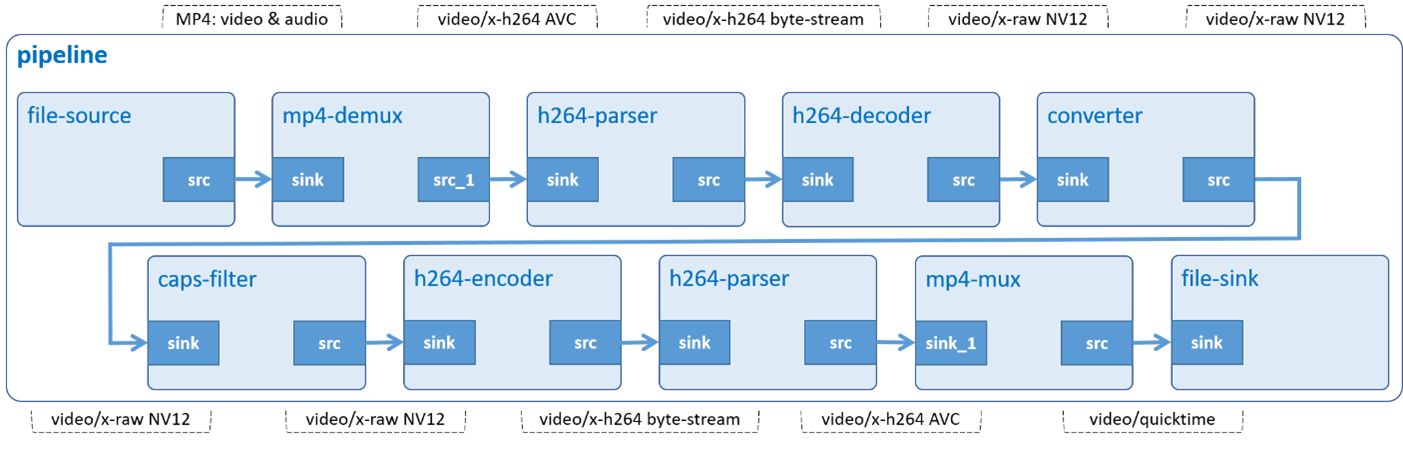
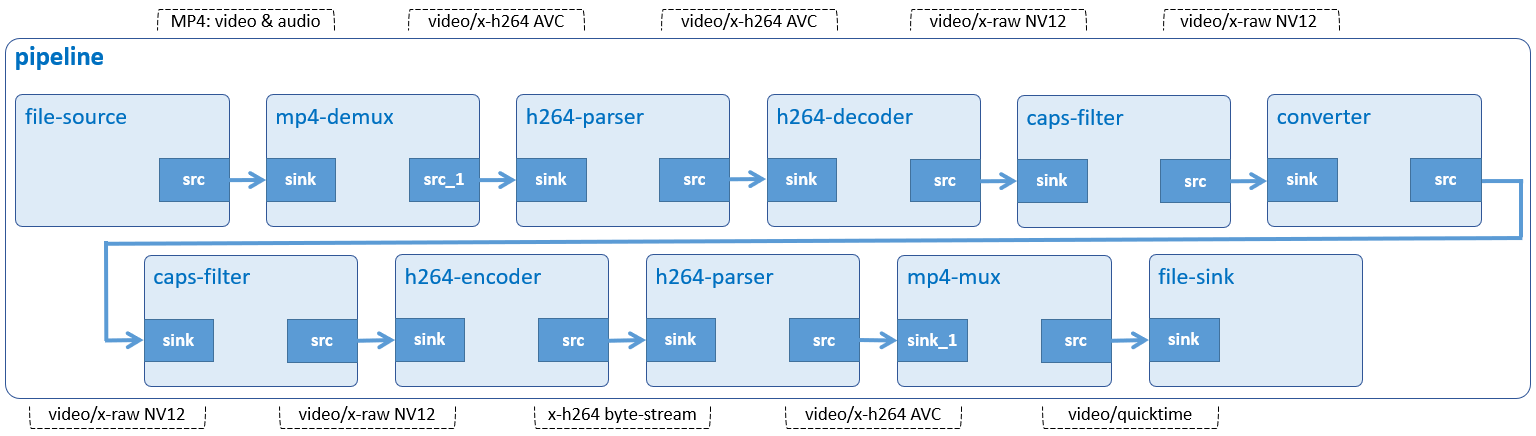
Support GStreamer Sample Code for RZ/V2H on AI SDK v6.00
Support these 18 GStreamer samples code for RZ/V2H AI SDK v6.00
Detail list is shown in README.md.

diff --git a/10_gst-videoscale/main.c b/10_gst-videoscale/main.c
@@ -34,8 +34,9 @@ typedef struct tag_user_data
   GstElement *demuxer;
   GstElement *parser1;
   GstElement *decoder;
+  GstElement *decoder_capsfilter;
   GstElement *filter;
-  GstElement *capsfilter;
+  GstElement *filter_capsfilter;
   GstElement *encoder;
   GstElement *parser2;
   GstElement *muxer;
@@ -55,6 +56,7 @@ on_pad_added (GstElement * element, GstPad * pad, gpointer data)
   GstStructure *new_pad_struct = NULL;
   const gchar *new_pad_type = NULL;
   UserData *puser_data = (UserData *) data;
+  GstCaps *decode_caps;
   GstCaps *scale_caps;
   int width;
   int height;
@@ -96,15 +98,21 @@ on_pad_added (GstElement * element, GstPad * pad, gpointer data)
     }
 
     /* create simple caps */
+    decode_caps =
+        gst_caps_new_simple ("video/x-raw", "width", G_TYPE_INT, width,
+        "height", G_TYPE_INT, height, NULL);
     scale_caps =
-        gst_caps_new_simple ("video/x-raw", "width", G_TYPE_INT, scaled_width, "height",
-        G_TYPE_INT, scaled_height, NULL);
+        gst_caps_new_simple ("video/x-raw", "width", G_TYPE_INT, scaled_width,
+        "height", G_TYPE_INT, scaled_height, NULL);
 
-    /* set caps property for capsfilters */
-    g_object_set (G_OBJECT (puser_data->capsfilter), "caps", scale_caps, NULL);
+    /* set caps properties for decoder and filter capsfilters */
+    g_object_set (G_OBJECT (puser_data->decoder_capsfilter), "caps", decode_caps, NULL);
+    g_object_set (G_OBJECT (puser_data->filter_capsfilter), "caps", scale_caps, NULL);
 
     /* unref caps after usage */
+    gst_caps_unref (decode_caps);
     gst_caps_unref (scale_caps);
+
     /* We can now link this pad with the H.264 parser sink pad */
     g_print ("Dynamic pad created, linking demuxer/parser\n");
 
@@ -215,8 +223,9 @@ setup_pipeline (UserData *data)
 
   /* Add the elements into the pipeline and link them together */
   gst_bin_add_many (GST_BIN (data->pipeline),
-      data->source, data->demuxer, data->parser1, data->decoder,data->filter,
-      data->capsfilter, data->encoder, data->parser2, data->muxer, data->sink,
+      data->source, data->demuxer, data->parser1, data->decoder,
+      data->decoder_capsfilter, data->filter, data->filter_capsfilter,
+      data->encoder, data->parser2, data->muxer, data->sink,
       NULL);
   /* file-src -> mp4-demuxer */
   if (gst_element_link (data->source, data->demuxer) != TRUE) {
@@ -225,8 +234,9 @@ setup_pipeline (UserData *data)
   }
   /* h264-parser-1 -> video-decoder -> video-filter -> video-encoder
    * -> h264-parser-2 */
-  if (gst_element_link_many (data->parser1, data->decoder, data->filter,
-          data->capsfilter, data->encoder, data->parser2, NULL) != TRUE) {
+  if (gst_element_link_many (data->parser1, data->decoder,
+          data->decoder_capsfilter, data->filter, data->filter_capsfilter,
+          data->encoder, data->parser2, NULL) != TRUE) {
     g_printerr ("Elements could not be linked.\n");
     return FALSE;
   }
@@ -355,16 +365,21 @@ main (int argc, char *argv[])
   user_data.demuxer = gst_element_factory_make ("qtdemux", "mp4-demuxer");
   user_data.parser1 = gst_element_factory_make ("h264parse", "h264-parser-1");
   user_data.decoder = gst_element_factory_make ("omxh264dec", "video-decoder");
+  user_data.decoder_capsfilter =
+      gst_element_factory_make ("capsfilter", "decoder-capsfilter");
   user_data.filter = gst_element_factory_make ("vspmfilter", "video-filter");
-  user_data.capsfilter = gst_element_factory_make ("capsfilter", "capsfilter");
+  user_data.filter_capsfilter =
+      gst_element_factory_make ("capsfilter", "filter-capsfilter");
   user_data.encoder = gst_element_factory_make ("omxh264enc", "video-encoder");
   user_data.parser2 = gst_element_factory_make ("h264parse", "h264-parser-2");
   user_data.muxer = gst_element_factory_make ("qtmux", "mp4-muxer");
   user_data.sink = gst_element_factory_make ("filesink", "file-output");
 
   if (!user_data.pipeline || !user_data.source || !user_data.demuxer ||
-          !user_data.parser1 || !user_data.decoder || !user_data.filter ||
-          !user_data.capsfilter || !user_data.encoder || !user_data.parser2 ||
+          !user_data.parser1 || !user_data.decoder ||
+          !user_data.decoder_capsfilter ||
+          !user_data.filter || !user_data.filter_capsfilter ||
+          !user_data.encoder || !user_data.parser2 ||
           !user_data.muxer || !user_data.sink) {
     g_printerr ("One element could not be created. Exiting.\n");
     return -1;

diff --git a/10_gst-videoscale/README.md b/10_gst-videoscale/README.md
@@ -31,8 +31,9 @@ typedef struct tag_user_data
   GstElement *demuxer;
   GstElement *parser1;
   GstElement *decoder;
+  GstElement *decoder_capsfilter;
   GstElement *filter;
-  GstElement *capsfilter;
+  GstElement *filter_capsfilter;
   GstElement *encoder;
   GstElement *parser2;
   GstElement *muxer;
@@ -45,7 +46,7 @@ typedef struct tag_user_data
 } UserData;
 ```
 This structure contains:
-- Gstreamer element variables: `pipeline`, `source`, `demuxer`, `parser1`, `decoder`, `filter`, `capsfilter`, `encoder`, `parser2`, `muxer`, `sink`. These variables will be used to create pipeline and elements as section [Create elements](#create-elements).
+- Gstreamer element variables: `pipeline`, `source`, `demuxer`, `parser1`, `decoder`, `decoder_capsfilter`, `filter`, `filter_capsfilter`, `encoder`, `parser2`, `muxer`, `sink`. These variables will be used to create pipeline and elements as section [Create elements](#create-elements).
 - Variable `input_file (const gchar)` to represent MP4 video input file.
 - Variable `scaled_width (int)` and `scaled_height (int)` are width and height of video after scale down.
 - Variable `board (enum board_name)` represents the MPU in use.
@@ -69,8 +70,9 @@ user_data.source = gst_element_factory_make ("filesrc", "video-src");
 user_data.demuxer = gst_element_factory_make ("qtdemux", "mp4-demuxer");
 user_data.parser1 = gst_element_factory_make ("h264parse", "h264-parser-1");
 user_data.decoder = gst_element_factory_make ("omxh264dec", "video-decoder");
+user_data.decoder_capsfilter = gst_element_factory_make ("capsfilter", "decoder-capsfilter");
 user_data.filter = gst_element_factory_make ("vspmfilter", "video-filter");
-user_data.capsfilter = gst_element_factory_make ("capsfilter", "capsfilter");
+user_data.filter_capsfilter = gst_element_factory_make ("capsfilter", "filter-capsfilter");
 user_data.encoder = gst_element_factory_make ("omxh264enc", "video-encoder");
 user_data.parser2 = gst_element_factory_make ("h264parse", "h264-parser-2");
 user_data.muxer = gst_element_factory_make ("qtmux", "mp4-muxer");
@@ -81,7 +83,7 @@ To scale down an H.264 video and store it in MP4 container, the following elemen
 -	 Element `qtdemux` de-multiplexes an MP4 file into audio and video stream.
 -	 Element `omxh264dec` decompresses H.264 stream to raw NV12-formatted video.
 -	 Element `vspmfilter` handles video scaling.
--	 Element `capsfilter` contains resolution so that vspfilter will scale video frames based on this value.
+-	 Element `capsfilter` contains decode resolution and scale resolution that decoder and vspmfilter use based on these values.
 -	 Element `omxh264enc` encodes raw video into H.264 compressed data.
 -	 Element `h264parse` parses H.264 video from byte stream format to AVC format which `omxh264dec` can process.
 -	 Element `qtmux` merges H.264 byte stream to MP4 container.
@@ -102,17 +104,23 @@ The `g_object_set()` function is used to set some element’s properties, such a
 -	 The `control-rate` property of omxh264enc element is used to specify birate control method which is variable bitrate method in this case.
 -	 The `location` property of filesink element which points to MP4 output file.
 ```c
+decode_caps =
+    gst_caps_new_simple ("video/x-raw", "width", G_TYPE_INT, width,
+    "height", G_TYPE_INT, height, NULL);
 scale_caps =
-    gst_caps_new_simple ("video/x-raw", "width", G_TYPE_INT, scaled_width, "height",
-    G_TYPE_INT, scaled_height, NULL);
+    gst_caps_new_simple ("video/x-raw", "width", G_TYPE_INT, scaled_width,
+    "height", G_TYPE_INT, scaled_height, NULL);
 
-g_object_set (G_OBJECT (puser_data->capsfilter), "caps", scale_caps, NULL);
+g_object_set (G_OBJECT (puser_data->decoder_capsfilter), "caps", decode_caps, NULL);
+g_object_set (G_OBJECT (puser_data->filter_capsfilter), "caps", scale_caps, NULL);
+
+gst_caps_unref (decode_caps);
 gst_caps_unref (scale_caps);
 ```
 Capabilities (short: `caps`) describe the type of data which is streamed between two pads. This data includes raw video format, resolution, and framerate.\
-The `gst_caps_new_simple()` function creates a new cap (scale_caps) which holds output’s resolution. This cap is then added to caps property of capsfilter `(g_object_set)` so that vspfilter will use these values to resize video frames.
+The `gst_caps_new_simple()` function creates new caps (decode_caps and scale_caps) which hold output’s resolutions. These caps are then added to caps property of decode_capsfilter and filter_capsfilter `(g_object_set)` so that decoder and vspmfilter will use these values to decode and resize video frames.
 
->Note that the `scale_caps` should be freed with `gst_caps_unref()` if it is not used anymore.
+>Note that the `decode_caps` and `scale_caps` should be freed with `gst_caps_unref()` if it is not used anymore.
 #### Get input file’s information
 ```c
 new_pad_caps = gst_pad_query_caps (pad, NULL);
@@ -152,6 +160,8 @@ This section shows how to cross-compile and deploy GStreamer _video scale_ appli
   ```sh
   $   sudo sh ./poky-glibc-x86_64-core-image-weston-aarch64-rzv2h-evk-ver1-toolchain-*.sh
   ```
+  Note:
+  > This step installs the RZ/V2H toolchain in the environment AI SDK 5.xx. If you want to install the RZ/V2H toolchain in the environment AI SDK 6.xx, please use `./rz-vlp-glibc-x86_64-core-image-weston-cortexa55-rzv2h-evk-toolchain-*.sh` instead.
 
 * RZ/G3E SMARC Evaluation Kit:
   ```sh

diff --git a/README.md b/README.md
@@ -11,7 +11,7 @@ Renesas evaluates all source codes here in the environment as below:
 | 1 | RZ/G2L SMARC Evaluation Kit | R9A07G044L (RZ/G2L) | [RZ/G Verified Linux Package [5.10-CIP]](https://www.renesas.com/us/en/products/microcontrollers-microprocessors/rz-mpus/rzg-linux-platform/rzg-marketplace/verified-linux-package/rzg-verified-linux-package) Version 3.0.7-update3 <sup>[1]</sup> <br>[RZ MPU Verified Linux Package [6.1-CIP]](https://www.renesas.com/en/software-tool/rz-mpu-verified-linux-package-61-cip) Version 4.0.0 <sup>[2]</sup> |
 | 2 | RZ/V2L SMARC Evaluation Kit | R9A07G054L (RZ/V2L) | [RZ/V Verified Linux Package [5.10-CIP]](https://www.renesas.com/us/en/software-tool/rzv-verified-linux-package) Version 3.0.7-update3 <sup>[1]</sup> |
 | 3 | RZ/V2N Evaluation Board Kit | R9A09G056N44 (RZ/V2N) | [RZ/V2N AI SDK v5.00](https://renesas-rz.github.io/rzv_ai_sdk/5.10/getting_started.html) <sup>[1]</sup><br>[RZ/V2N AI SDK v6.00](https://renesas-rz.github.io/rzv_ai_sdk/6.00/getting_started.html) <sup>[2]</sup> |
-| 4 | RZ/V2H Evaluation Board Kit | R9A09G057H4 (RZ/V2H) | [RZ/V2H AI SDK v5.20](https://renesas-rz.github.io/rzv_ai_sdk/5.10/getting_started.html) <sup>[1]</sup> |
+| 4 | RZ/V2H Evaluation Board Kit | R9A09G057H4 (RZ/V2H) | [RZ/V2H AI SDK v5.20](https://renesas-rz.github.io/rzv_ai_sdk/5.10/getting_started.html) <sup>[1]</sup><br>[RZ/V2H AI SDK v6.00](https://renesas-rz.github.io/rzv_ai_sdk/6.20/getting_started.html) <sup>[2]</sup> |
 | 5 | RZ/G3E SMARC Evaluation Kit | R9A09G047E57 (RZ/G3E) | [RZ/G3E Board Support Package](https://www.renesas.com/en/software-tool/rzg3e-board-support-package) Version 1.0.0 <sup>[2]</sup> |
 
 <sup>[1]</sup> Linux kernel version 5.10 and Yocto version 3.1 (Dunfell)\

diff --git a/01_gst-audioplay/README.md b/01_gst-audioplay/README.md
@@ -203,6 +203,8 @@ This section shows how to cross-compile and deploy GStreamer _audio play_ applic
   ```sh
   $   sudo sh ./poky-glibc-x86_64-core-image-weston-aarch64-rzv2h-evk-ver1-toolchain-*.sh
   ```
+   Note:
+  > This step installs the RZ/V2H toolchain in the environment AI SDK 5.xx. If you want to install the RZ/V2H toolchain in the environment AI SDK 6.xx, please use `./rz-vlp-glibc-x86_64-core-image-weston-cortexa55-rzv2h-evk-toolchain-*.sh` instead.
 
 * RZ/G3E SMARC Evaluation Kit:
   ```sh
@@ -249,4 +251,4 @@ To set the playback volume: please use the alsamixer or amixer tool. Reference: 
 > A short guide that how to use alsamixer (https://wiki.ubuntu.com/Audio/Alsamixer).
 
 #### For RZ/V2H and RZ/V2N:
-> Please refer to **Appendix F How to Configure and Utilize Audio** in the **RZ/V2H Group and RZ/V2N Group Linux Interface Specification GStreamer User's Manual: Software, Revision 2.00** (r01us0653ej0200-rzv2h_rzv2n_GStreamer_UME.pdf) (or later)
+> Please refer to **Appendix F How to Configure and Utilize Audio** in the **RZ/V2H Group and RZ/V2N Group Linux Interface Specification GStreamer User's Manual: Software, Revision 2.01** (r01us0653ej0201-rzv2h_rzv2n_GStreamer_UME.pdf) (or later)

diff --git a/11_gst-audioplayer/README.md b/11_gst-audioplayer/README.md
@@ -503,6 +503,8 @@ This section shows how to cross-compile and deploy GStreamer _audio player_ appl
   ```sh
   $   sudo sh ./poky-glibc-x86_64-core-image-weston-aarch64-rzv2h-evk-ver1-toolchain-*.sh
   ```
+  Note:
+  > This step installs the RZ/V2H toolchain in the environment AI SDK 5.xx. If you want to install the RZ/V2H toolchain in the environment AI SDK 6.xx, please use `./rz-vlp-glibc-x86_64-core-image-weston-cortexa55-rzv2h-evk-toolchain-*.sh` instead.
 
 * RZ/G3E SMARC Evaluation Kit:
   ```sh
@@ -548,4 +550,4 @@ To set the playback volume: please use the alsamixer or amixer tool. Reference: 
 > A short guide that how to use alsamixer (https://wiki.ubuntu.com/Audio/Alsamixer).
 
 #### For RZ/V2H and RZ/V2N:
-> Please refer to **Appendix F How to Configure and Utilize Audio** in the **RZ/V2H Group and RZ/V2N Group Linux Interface Specification GStreamer User's Manual: Software, Revision 2.00** (r01us0653ej0200-rzv2h_rzv2n_GStreamer_UME.pdf) (or later)
+> Please refer to **Appendix F How to Configure and Utilize Audio** in the **RZ/V2H Group and RZ/V2N Group Linux Interface Specification GStreamer User's Manual: Software, Revision 2.01** (r01us0653ej0201-rzv2h_rzv2n_GStreamer_UME.pdf) (or later)

diff --git a/13_gst-audiovideoplay/README.md b/13_gst-audiovideoplay/README.md
@@ -192,6 +192,8 @@ This section shows how to cross-compile and deploy GStreamer _audio video play_ 
   ```sh
   $   sudo sh ./poky-glibc-x86_64-core-image-weston-aarch64-rzv2h-evk-ver1-toolchain-*.sh
   ```
+  Note:
+  > This step installs the RZ/V2H toolchain in the environment AI SDK 5.xx. If you want to install the RZ/V2H toolchain in the environment AI SDK 6.xx, please use `./rz-vlp-glibc-x86_64-core-image-weston-cortexa55-rzv2h-evk-toolchain-*.sh` instead.
 
 * RZ/G3E SMARC Evaluation Kit:
   ```sh
@@ -239,4 +241,4 @@ To set the playback volume: please use the alsamixer or amixer tool. Reference: 
 > A short guide that how to use alsamixer (https://wiki.ubuntu.com/Audio/Alsamixer).
 
 #### For RZ/V2H and RZ/V2N:
-> Please refer to **Appendix F How to Configure and Utilize Audio** in the **RZ/V2H Group and RZ/V2N Group Linux Interface Specification GStreamer User's Manual: Software, Revision 2.00** (r01us0653ej0200-rzv2h_rzv2n_GStreamer_UME.pdf) (or later)
+> Please refer to **Appendix F How to Configure and Utilize Audio** in the **RZ/V2H Group and RZ/V2N Group Linux Interface Specification GStreamer User's Manual: Software, Revision 2.01** (r01us0653ej0201-rzv2h_rzv2n_GStreamer_UME.pdf) (or later)

diff --git a/14_gst-fileplay/README.md b/14_gst-fileplay/README.md
@@ -226,6 +226,8 @@ This section shows how to cross-compile and deploy GStreamer _file_ play_ applic
   ```sh
   $   sudo sh ./poky-glibc-x86_64-core-image-weston-aarch64-rzv2h-evk-ver1-toolchain-*.sh
   ```
+  Note:
+  > This step installs the RZ/V2H toolchain in the environment AI SDK 5.xx. If you want to install the RZ/V2H toolchain in the environment AI SDK 6.xx, please use `./rz-vlp-glibc-x86_64-core-image-weston-cortexa55-rzv2h-evk-toolchain-*.sh` instead.
 
 * RZ/G3E SMARC Evaluation Kit:
   ```sh
@@ -272,4 +274,4 @@ To set the playback volume: please use the alsamixer or amixer tool. Reference: 
 > A short guide that how to use alsamixer (https://wiki.ubuntu.com/Audio/Alsamixer).
 
 #### For RZ/V2H and RZ/V2N:
-> Please refer to **Appendix F How to Configure and Utilize Audio** in the **RZ/V2H Group and RZ/V2N Group Linux Interface Specification GStreamer User's Manual: Software, Revision 2.00** (r01us0653ej0200-rzv2h_rzv2n_GStreamer_UME.pdf) (or later)
+> Please refer to **Appendix F How to Configure and Utilize Audio** in the **RZ/V2H Group and RZ/V2N Group Linux Interface Specification GStreamer User's Manual: Software, Revision 2.01** (r01us0653ej0201-rzv2h_rzv2n_GStreamer_UME.pdf) (or later)

diff --git a/00_gst-helloworld/README.md b/00_gst-helloworld/README.md
@@ -108,6 +108,8 @@ This section shows how to cross-compile and deploy GStreamer _hello world_ appli
   ```sh
   $   sudo sh ./poky-glibc-x86_64-core-image-weston-aarch64-rzv2h-evk-ver1-toolchain-*.sh
   ```
+  Note:
+  > This step installs the RZ/V2H toolchain in the environment AI SDK 5.xx. If you want to install the RZ/V2H toolchain in the environment AI SDK 6.xx, please use `./rz-vlp-glibc-x86_64-core-image-weston-cortexa55-rzv2h-evk-toolchain-*.sh` instead.
 
 * RZ/G3E SMARC Evaluation Kit:
   ```sh

diff --git a/02_gst-videoplay/README.md b/02_gst-videoplay/README.md
@@ -128,6 +128,8 @@ This section shows how to cross-compile and deploy GStreamer _video play_ applic
   ```sh
   $   sudo sh ./poky-glibc-x86_64-core-image-weston-aarch64-rzv2h-evk-ver1-toolchain-*.sh
   ```
+  Note:
+  > This step installs the RZ/V2H toolchain in the environment AI SDK 5.xx. If you want to install the RZ/V2H toolchain in the environment AI SDK 6.xx, please use `./rz-vlp-glibc-x86_64-core-image-weston-cortexa55-rzv2h-evk-toolchain-*.sh` instead.
 
 * RZ/G3E SMARC Evaluation Kit:
   ```sh

diff --git a/03_gst-audioencode/README.md b/03_gst-audioencode/README.md
@@ -115,6 +115,8 @@ This section shows how to cross-compile and deploy GStreamer _audio encode_ appl
   ```sh
   $   sudo sh ./poky-glibc-x86_64-core-image-weston-aarch64-rzv2h-evk-ver1-toolchain-*.sh
   ```
+  Note:
+  > This step installs the RZ/V2H toolchain in the environment AI SDK 5.xx. If you want to install the RZ/V2H toolchain in the environment AI SDK 6.xx, please use `./rz-vlp-glibc-x86_64-core-image-weston-cortexa55-rzv2h-evk-toolchain-*.sh` instead.
 
 * RZ/G3E SMARC Evaluation Kit:
   ```sh

diff --git a/04_gst-videoencode/README.md b/04_gst-videoencode/README.md
@@ -115,6 +115,8 @@ This section shows how to cross-compile and deploy GStreamer _video encode_ appl
   ```sh
   $   sudo sh ./poky-glibc-x86_64-core-image-weston-aarch64-rzv2h-evk-ver1-toolchain-*.sh
   ```
+  Note:
+  > This step installs the RZ/V2H toolchain in the environment AI SDK 5.xx. If you want to install the RZ/V2H toolchain in the environment AI SDK 6.xx, please use `./rz-vlp-glibc-x86_64-core-image-weston-cortexa55-rzv2h-evk-toolchain-*.sh` instead.
 
 * RZ/G3E SMARC Evaluation Kit:
   ```sh

diff --git a/05_gst-audiorecord/README.md b/05_gst-audiorecord/README.md
@@ -195,6 +195,8 @@ This section shows how to cross-compile and deploy GStreamer _audio record_ appl
   ```sh
   $   sudo sh ./poky-glibc-x86_64-core-image-weston-aarch64-rzv2h-evk-ver1-toolchain-*.sh
   ```
+  Note:
+  > This step installs the RZ/V2H toolchain in the environment AI SDK 5.xx. If you want to install the RZ/V2H toolchain in the environment AI SDK 6.xx, please use `./rz-vlp-glibc-x86_64-core-image-weston-cortexa55-rzv2h-evk-toolchain-*.sh` instead.
 
 * RZ/G3E SMARC Evaluation Kit:
   ```sh
